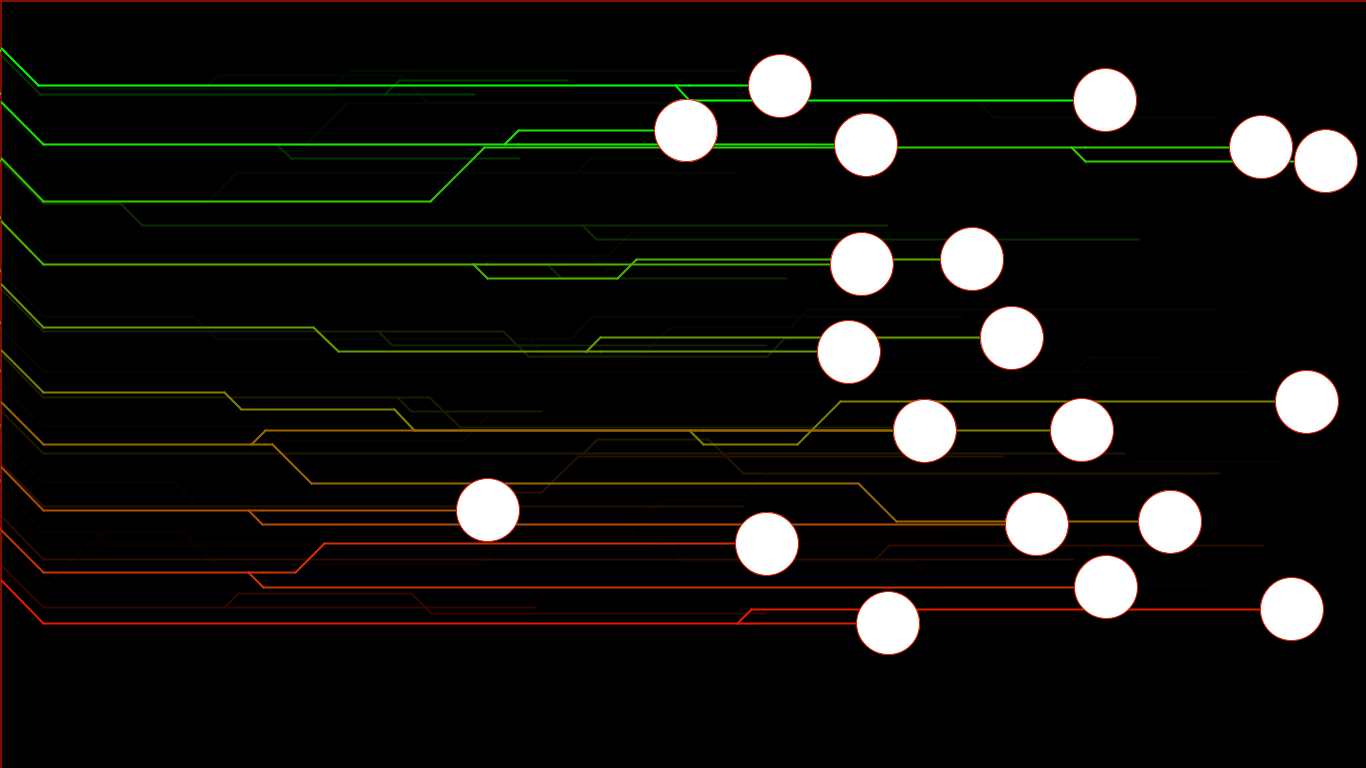
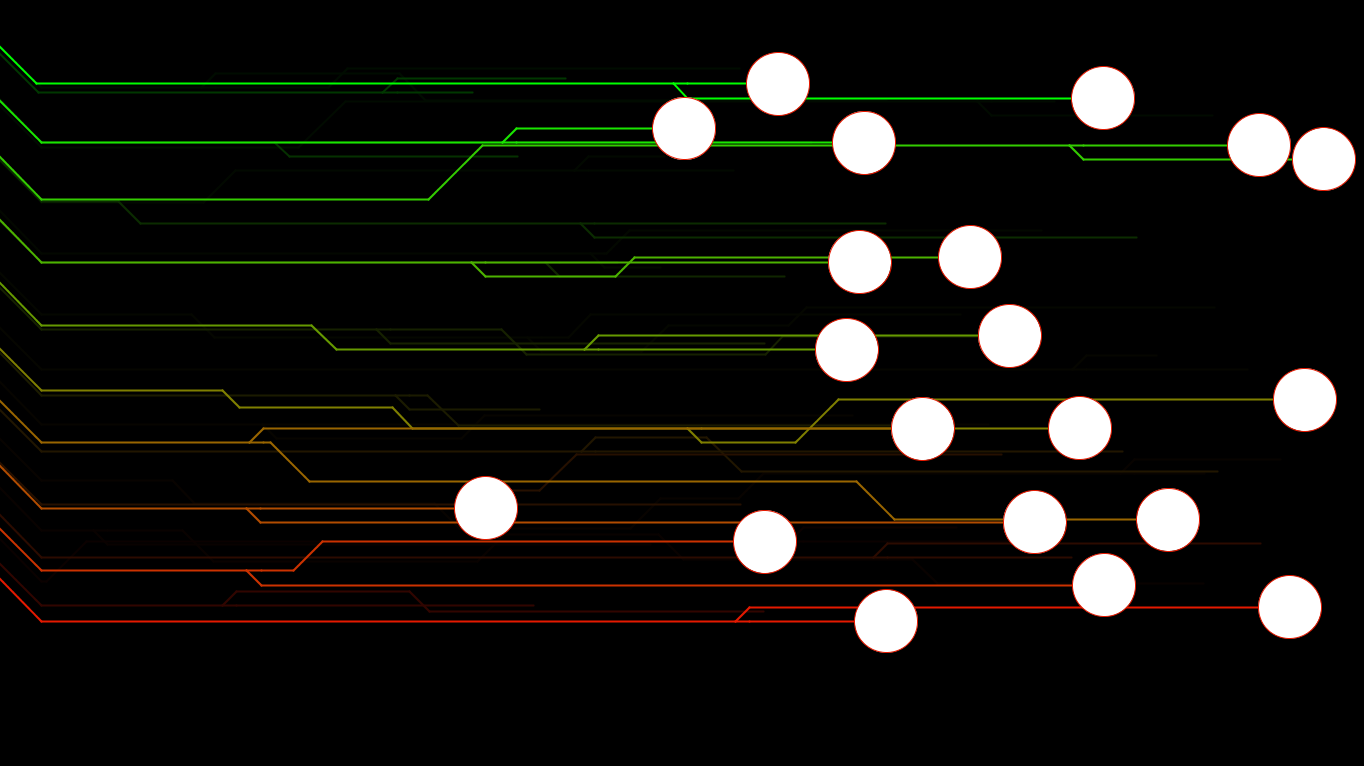
Fixed some problems
One problem remaining with homepage.html: When window is resized, the
collapsed navbar that appears after the button is clicked is transparent

diff --git a/team.html b/team.html
@@ -3,26 +3,34 @@
 <head>
 	<title>Meet the Team</title>
 	<link rel="stylesheet" type="text/css" href="team.css">
+	<script src="https://ajax.googleapis.com/ajax/libs/jquery/1.12.4/jquery.min.js"></script>
 </head>
 <body>
-	<img class="bg" src="backgrounds/CircuitImage4.png">
-	<img src="cat.jpg" class="gbubble" style="top:16%; left:80.83778%;">
-	<img src="cat.jpg" class="gbubble" style="top:13%; left:57.031357%;"> 
-	<img src="cat.jpg" class="gbubble" style="top:20%; left:50.165512%;"> 
-	<img src="cat.jpg" class="gbubble" style="top:23%; left:63.32974%;"> 
-	<img src="cat.jpg" class="gbubble" style="top:23%; left:92.26004%;">
-	<img src="cat.jpg" class="gbubble" style="top:25%; left:96.98962%;">
-	<!--<img src="cat.jpg" class="gbubble" style="top:16%; left:80.83778%;">
-	<img src="cat.jpg" class="gbubble" style="top:16%; left:80.83778%;">
-	<img src="cat.jpg" class="gbubble" style="top:16%; left:80.83778%;">
-	<img src="cat.jpg" class="gbubble" style="top:16%; left:80.83778%;">-->
-	
-	<div class="section">
+	<img id = "icon1" src="cat.jpg" class="gbubble" style="left: 60.39738vw; top: 7.0713544vw;">
+	<img src="cat.jpg" class="gbubble" style="left: 87.03175vw; top: 6.497711vw;">
+	<img src="cat.jpg" class="gbubble" style="left: 38.273136vw; top: 11.177318vw;">
+	<img src="cat.jpg" class="gbubble" style="left: 58.139008vw; top: 16.278381vw;">
+	<img src="cat.jpg" class="gbubble" style="left: 87.98875vw; top: 15.243086vw;">
+	<img src="cat.jpg" class="gbubble" style="left: 41.858734vw; top: 19.18487vw;">
+	<img src="cat.jpg" class="gbubble" style="left: 78.01479vw; top: 24.790417vw;">
+	<img src="cat.jpg" class="gbubble" style="left: 89.217606vw; top: 23.75512vw;">
+	<img src="cat.jpg" class="gbubble" style="left: 60.67736vw; top: 24.115889vw;">
+	<img src="cat.jpg" class="gbubble" style="left: 64.29837vw; top: 33.811035vw;">
+	<img src="cat.jpg" class="gbubble" style="left: 85.213264vw; top: 32.77574vw;">
+	<img src="cat.jpg" class="gbubble" style="left: 55.097813vw; top: 32.858948vw;">
+	<img src="cat.jpg" class="gbubble" style="left: 82.048vw; top: 39.448532vw;">
+	<img src="cat.jpg" class="gbubble" style="left: 40.75314vw; top: 40.48383vw;">
+	<img src="cat.jpg" class="gbubble" style="left: 56.249886vw; top: 44.326397vw;">
+	<div id = "about" class="section">
 		<img src="cat.jpg" class="centered">
 		<div class ="myImage">
-			<div class="innerHover"><h1 align="center">first last</h1><p>What you see above is the four boxes from the previous section, in their default states. When you mouseover any of the boxes, however, the CSS transformation is applied as a one second animation. When the mouse moves away the animation is reversed, taking each box back to its original state.And we can do this without using JavaScript - only HTML and CSS! Here is the complete code for 'box 1' which slides to the right and back:</p></div>
+			<h1 align="center">first last</h1><p>What you see above is the four boxes from the previous section, in their default states. When you mouseover any of the boxes, however, the CSS transformation is applied as a one second animation. When the mouse moves away the animation is reversed, taking each box back to its original state.And we can do this without using JavaScript - only HTML and CSS! Here is the complete code for 'box 1' which slides to the right and back:</p>
 		</div>
 	</div>
-	
+	<script>
+		$("#icon1").click(function() {
+			$("#about").fadeIn("fast");
+		})
+	</script>
 </body>
 </html>

diff --git a/team.css b/team.css
@@ -1,6 +1,11 @@
-/*body{
-	background-image: url("backgrounds/CircuitImage4.png");
-}*/ 
+body{
+	background-image: url("backgrounds/CircuitImage8.png");
+	background-size: 100%;
+	background-attachment: fixed;
+	background-repeat: no-repeat;
+	background-color: #000;
+	background-position: center-top;
+}
 @font-face {
 	font-family: 'Enriqueta';
 	src: url("fonts/Enriqueta-Regular.otf") format("opentype");
@@ -9,77 +14,36 @@
 	font-family: 'FiraSans';
 	src: url("fonts/FiraSans-Regular.otf") format("opentype");
 }
-
-img.bg{
-  /* Set rules to fill background*/ 
-  min-height: 100%;
-  min-width: 1024px;
-	
-  /* Set up proportionate scaling */ 
-  width: 100%;
-  height: auto;
-	
-  /* Set up positioning */ 
-  position: fixed;
-  top: 0;
-  left: 0;
-}
-
-@media screen and (max-width: 1024px) { /* Specific to this particular image*/ 
-  img.bg {
-    left: 50%;
-    margin-left: -512px;   /* 50% */ 
-  }
-}
-div.section:hover .innerHover, div.section:hover .centered{
-	opacity:1.0;
-    filter:alpha(opacity=100);
-}
 .myImage {
-     position: fixed;
-     background: transparent;
-     width: 300px;
-	 top: 68%;
-	 left: 20%;
-	 padding: 5px;
-	 transform: translate(-50%, -50%);
-}
-.innerHover {
+    position: fixed;
 	font-family: 'FiraSans';
 	font-size: 12px;
 	text-align: center;
-    position: center;
-	background: rgba(0, 0, 0, 0.5);
-    top: 55%;
-    left: 20%;
-    /*width: 50px;
-    height: 50px;*/
-	color:#ffffff;
-	opacity:0.0;
-    filter:alpha(opacity=0);
-}
-/*.innerHover:hover{
-	background:black;
-    /*opacity:1.0;
-    filter:alpha(opacity=100); /** no transparency on hover *
-}*/
-.gbubble{
-	position: absolute;
-	display: inline;
-	padding: 3px 3px 3px 3px;
-	width:64px;
-	height:64px;
-	border-radius:35px;
-	background: #54E823 /*center top no-repeat*/;
+    background: rgba(0, 128, 255, 0.5);
+    width: 35vw;
+    height: 50px;
+	top: 60%;
+	left: 20%;
+	padding: 5px;
 	transform: translate(-50%, -50%);
+	color:#ffffff;
 }
+
+.gbubble{
+	position: fixed;
+	width:4.6vw;
+	height:4.6vw;
+	padding: 0.1vw 0.1vw;
+	border-radius:50%;
+	transform: translate(-50%, -50%);
+	background-color: #cccccc;
+}
+
 .gbubble:hover{
-	width: 90px;
-	height: 90px;
-	padding: 5px 5px 5px 5px;
-	border-radius: 50px;
-	transition:0.5s;
-	
+	width: 6vw;
+	height: 6vw;
+	border-radius: 50%;
+	transition:0.25s;
 }
 
 .centered {
@@ -91,9 +55,23 @@ div.section:hover .innerHover, div.section:hover .centered{
   border-radius:150px;
   padding: 5px 5px 5px 5px;
   background: white;
-  /* bring your own prefixes */
   transform: translate(-50%, -50%);
-  opacity:0.0;
-  filter:alpha(opacity=0);
 }
 
+p {
+	background: rgba(0, 128, 255, 0.5);
+}
+
+#about {
+	background: rgba(0, 128, 255, 0.5);
+	display:none;
+}
+
+@media screen and (max-width: 787px) {
+	.centered {
+		top: 25vw;
+		width: 36.84879vw;
+		height: 36.84879vw;
+		transition: 0.5s;
+	}
+}

diff --git a/js/scroll.js b/js/scroll.js
@@ -12,6 +12,13 @@ $(function() {
         }
 	});
 });
+$(window).resize(function() {
+	if ($(window).width() < 768) {
+		$("#myNavbar").addClass("collapse","fast");
+	} else {
+		$("#myNavbar").removeClass("collapse","fast");
+	}
+})
 $(window).scroll(function() {
 	if ($(window).width() > 768) {
 		if ($(document).scrollTop() > $(window).height()) {
@@ -27,6 +34,7 @@ $(window).scroll(function() {
 			$("#mail").removeClass("mail","fast");
 			$("#mail").addClass("mail-left","fast");
 			$("#main").fadeIn("fast");
+			$("#nav").addClass("dark", "slow");
 		} else {
 			$("#main").fadeOut("fast");
 			$("#ucvtsLogo").fadeIn("fast");
@@ -40,6 +48,12 @@ $(window).scroll(function() {
 			$("#mail").removeClass("mail-left","fast");
 			$("#mail").addClass("mail","fast");
 			$("#circle").fadeIn("fast");
+			$("#nav").removeClass("dark", "slow");
 		}
+	}
+	if ($(document).scrollTop() > $(window).height()) {
+		$("#nav").addClass("dark", "slow");
+	} else {
+		$("#nav").removeClass("dark", "slow");
 	}
 });

diff --git a/template.css b/template.css
@@ -41,11 +41,17 @@ nav {
 	box-shadow: 0px 0px 0px;
 	border: none;
 }
+.dark {
+	background: #222;
+}
 .navbar-custom {
 	background:transparent;
 /*	background:#D35348;*/
 /*	background:#6a4c28;*/
 /*	background:#FFFFF0;*/
+}
+.collapsed {
+	background: #222;
 }
 .navbar-custom .nav li a:hover{
     background-color: transparent;
@@ -56,7 +62,7 @@ nav {
 	color: #999;
 }
 .navbar-custom .nav li.active a:visited {
-	background-color: #222;
+	background-color: #111;
 /*	background-color: #5b4122;*/
 	color: #999;
 /*	color: #ffc1bc;*/
@@ -66,7 +72,7 @@ nav {
 
 .navbar-custom .nav li.active a:hover {
 /*	background-color: #be4b41;*/
-	background-color: #333;
+	background-color: #000408;
 /*	background-color: #5b4122;*/
 	color: #F8F8FF;
 }
@@ -368,11 +374,11 @@ p.contact {
 }
 
 #button:focus {
-	background-color: #be4b41;
+	background-color: #111;
 /*	background-color: #5b4122;*/
 }
 
 #button:hover {
-	background-color: #be4b41;
+	background-color: #111;
 /*	background-color: #5b4122;*/
 }

diff --git a/homepage.html b/homepage.html
@@ -57,6 +57,7 @@
 						<li><a class="page-scroll" href="#section3">Section 3</a></li>
 					</ul>
 				</div>
+				</div>
 			</div>
 		</div>
 	</nav>
